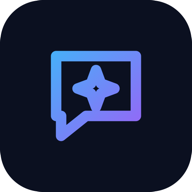
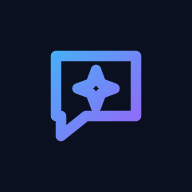
v0.23.2：设计包升到 v0.32.0，主屏 Web App 改用包里的实现

diff --git a/src/claude_bridge/static/app.html b/src/claude_bridge/static/app.html
@@ -12,7 +12,8 @@
   <meta name="mobile-web-app-capable" content="yes" />
   <meta name="apple-mobile-web-app-status-bar-style" content="black-translucent" />
   <meta name="apple-mobile-web-app-title" content="claude-bridge" />
-  <meta name="theme-color" content="#0b1020" />
+  <meta name="theme-color" media="(prefers-color-scheme: dark)" content="#0b1020" />
+  <meta name="theme-color" media="(prefers-color-scheme: light)" content="#eef1f8" />
   <link rel="preconnect" href="{{design_origin}}" crossorigin />
   <link rel="stylesheet" href="{{design_base}}/tokens.css" />
   <link rel="stylesheet" href="{{design_base}}/components.css" />
@@ -20,35 +21,11 @@
   <link rel="stylesheet" href="/static/bridge/bridge-widget.css" />
   <link rel="stylesheet" href="/static/bridge/bridge-pages.css" />
   <script type="module" src="/static/bridge/corner-boot.js"></script>
-  <style>
-    #app { height: 100vh; height: var(--app-h, 100dvh); }
-  </style>
   <script src="https://cdnjs.cloudflare.com/ajax/libs/marked/15.0.12/marked.min.js" defer></script>
 </head>
-<body class="bp-chat">
+<body class="bp-chat app-screen">
   <div class="bg-layer"></div>
-  <div id="app"></div>
-  <script>
-    // Phones: the on-screen keyboard covers the page without shrinking it, and iOS slides the page up under it. Size the
-    // app to what is visible (visualViewport) and keep the page at the top, so the composer sits right on the keyboard;
-    // with the keyboard up, the home-indicator inset below the composer is not needed (body.kb-open).
-    (() => {
-      const vv = window.visualViewport;
-      if (!vv) return;
-      let raf = 0;
-      const fit = () => {
-        raf = 0;
-        const full = document.documentElement.clientHeight, h = Math.round(vv.height);
-        document.documentElement.style.setProperty('--app-h', `${h}px`);
-        document.body.classList.toggle('kb-open', full - h > 120);
-        if (window.scrollY || vv.offsetTop) window.scrollTo(0, 0);
-      };
-      const later = () => { if (!raf) raf = requestAnimationFrame(fit); };
-      vv.addEventListener('resize', later);
-      vv.addEventListener('scroll', later);
-      fit();
-    })();
-  </script>
+  <div id="app" class="app-fill"></div>
   <script type="module">
     import { BridgeClient } from '/static/bridge/bridge-client.js';
     import { mountBridgeWidget, loadPrefs, savePrefs, applyPrefs } from '/static/bridge/bridge-widget.js';
@@ -56,7 +33,8 @@
     import { attachMenu } from '@szyyw/design/menu.js';
     import { confirm } from '@szyyw/design/confirm.js';
     import { iconSvg } from '@szyyw/design/icons.js';
-    const STANDALONE = matchMedia('(display-mode: standalone)').matches || navigator.standalone === true;
+    import { fitViewport, autoUpdate, defaultIsBusy } from '@szyyw/design/webapp.js';
+    fitViewport();  // one screen that follows the visible viewport: the composer sits on the phone keyboard
     import { openLightbox } from '@szyyw/design/lightbox.js';
 
     const client = new BridgeClient({ baseUrl: '/api', onAuthLost: () => { location.href = '/login'; } });
@@ -249,7 +227,6 @@
     });
 
     app.addEventListener('click', async (e) => {
-      if (e.target.closest('[data-reload]')) return location.reload();
       const m = e.target.closest('.bp-nav [data-mode]');
       if (m) return setMode(m.dataset.mode);
       const bk = e.target.closest('.bp-backend [data-backend]');
@@ -318,8 +295,6 @@
           + (u.role === 'admin' ? `<a class="menu-item" href="/admin">${iconSvg('users')}管理</a>` : '');
       }
       // portal SSO: sign-out lives in the corner account menu (it signs out of the portal)
-      // a home-screen web app has no address bar: give it a way to reload
-      if (STANDALONE) items += `<div class="menu-sep"></div><button type="button" class="menu-item" data-reload>${iconSvg('refresh-cw')}刷新页面</button>`;
       if (!d.sso) items += '<div class="menu-sep"></div><form method="post" action="/logout"><button type="submit" class="menu-item">' + iconSvg('log-out') + '退出登录</button></form>';
       for (const m of acctMenus) m.destroy();
       acctMenus = [];
@@ -336,26 +311,14 @@
     if (backend && !backends.some(b => b.name === backend)) { backend = ''; store.set('bridge_backend', null); }
     show();
     setInterval(renderAccount, 120000);
-    // Keeping up without a reload button (and for tabs left open): a new release is loaded as soon as nothing is being
-    // typed; coming back after a long time away starts afresh, the way a native app is relaunched.
-    const LOADED = document.documentElement.dataset.version || '';
-    const AWAY_MS = 30 * 60 * 1000;
-    let hiddenAt = 0;
-    const idle = () => !(widget?.input?.value || '').trim() && !document.querySelector('dialog[open], .bridge-dlg, .lightbox:not([hidden])');
-    async function checkVersion() {
-      if (document.hidden || !LOADED) return;
-      try {
-        const r = await fetch('/api/status', { cache: 'no-store', credentials: 'same-origin' });
-        const v = r.ok ? (await r.json())?.bridge?.version : '';
-        if (v && v !== LOADED && idle()) location.reload();
-      } catch { /* offline: try again later */ }
-    }
-    setInterval(checkVersion, 10 * 60 * 1000);
-    document.addEventListener('visibilitychange', () => {
-      if (document.hidden) { hiddenAt = Date.now(); return; }
-      if (hiddenAt && Date.now() - hiddenAt > AWAY_MS && idle()) return location.reload();
-      renderAccount(); checkVersion();
+    // A new release loads by itself (and after a long time away the page starts afresh) unless a draft is in the composer
+    // or a dialog is open; a home-screen app gets its 刷新 button in the appearance panel (mountChrome).
+    autoUpdate({
+      current: document.documentElement.dataset.version,
+      check: async () => (await (await fetch('/api/status', { cache: 'no-store' })).json())?.bridge?.version,
+      isBusy: () => !!(widget?.input?.value || '').trim() || defaultIsBusy(),
     });
+    document.addEventListener('visibilitychange', () => { if (!document.hidden) renderAccount(); });
   </script>
 </body>
 </html>

diff --git a/src/claude_bridge/static/bridge-pages.css b/src/claude_bridge/static/bridge-pages.css
@@ -119,10 +119,8 @@ html[data-vt="back"]::view-transition-new(bp-list), html[data-vt="back"]::view-t
 
 /* ---------- chat page on the site's background theme: glass layers over .bg-layer ----------
    Scoped to body.bp-chat, so the embedded widget (bridge-widget.css alone) keeps its flat look. */
-/* the chat page is one screen: only the transcript, the side list and the composer scroll inside it. The page itself
-   neither scrolls (the design tokens' body min-height: 100vh is taller than what a phone shows) nor bounces. */
-html:has(> body.bp-chat), body.bp-chat { height: 100%; overflow: hidden; overscroll-behavior: none; }
-body.bp-chat { min-height: 0; }
+/* the chat page is one screen (body.app-screen + #app.app-fill from the design package): only the transcript, the side
+   list and the composer scroll, each inside itself */
 body.bp-chat .bridge-list, body.bp-chat .bridge-threads { overscroll-behavior: contain; }
 body.bp-chat .bridge { background: transparent; }
 body.bp-chat .bridge-side,
@@ -156,18 +154,16 @@ body.bp-chat #app { position: relative; z-index: 1; }
 /* the page runs edge to edge (viewport-fit=cover): keep the composer, the sidebar's foot and the drawer clear of the
    phone's rounded corners and home indicator, and of the notch / side insets in landscape */
 body.bp-chat .bridge-form {
-  margin-bottom: calc(var(--chat-item-gap, 10px) + env(safe-area-inset-bottom, 0px));
+  margin-bottom: calc(var(--chat-item-gap, 10px) + var(--safe-bottom, env(safe-area-inset-bottom, 0px)));
   margin-left: max(var(--chat-gutter, 12px), env(safe-area-inset-left, 0px));
   margin-right: max(var(--chat-gutter, 12px), env(safe-area-inset-right, 0px));
 }
-/* keyboard up (app.html sets kb-open): the composer sits on the keyboard, no home-indicator gap below it */
-body.bp-chat.kb-open .bridge-form { margin-bottom: var(--chat-item-gap, 10px); }
 /* "comfortable" width: the composer lines up with the centred message column, like claude.ai */
 body.bp-chat .bridge[data-width="cozy"] .bridge-form {
   margin-left: max(var(--chat-gutter, 12px), env(safe-area-inset-left, 0px), calc((100% - var(--chat-col-w, 72ch)) / 2));
   margin-right: max(var(--chat-gutter, 12px), env(safe-area-inset-right, 0px), calc((100% - var(--chat-col-w, 72ch)) / 2));
 }
-body.bp-chat .bridge-side { padding-bottom: calc(10px + env(safe-area-inset-bottom, 0px)); padding-left: max(10px, env(safe-area-inset-left, 0px)); }
+body.bp-chat .bridge-side { padding-bottom: calc(10px + var(--safe-bottom, env(safe-area-inset-bottom, 0px))); padding-left: max(10px, env(safe-area-inset-left, 0px)); }
 body.bp-chat .bridge-top { padding-left: max(12px, env(safe-area-inset-left, 0px)); }
 
 /* account page: API keys */

diff --git a/src/claude_bridge/static/account.html b/src/claude_bridge/static/account.html
@@ -12,7 +12,8 @@
   <meta name="mobile-web-app-capable" content="yes" />
   <meta name="apple-mobile-web-app-status-bar-style" content="black-translucent" />
   <meta name="apple-mobile-web-app-title" content="claude-bridge" />
-  <meta name="theme-color" content="#0b1020" />
+  <meta name="theme-color" media="(prefers-color-scheme: dark)" content="#0b1020" />
+  <meta name="theme-color" media="(prefers-color-scheme: light)" content="#eef1f8" />
   <link rel="preconnect" href="{{design_origin}}" crossorigin />
   <link rel="stylesheet" href="{{design_base}}/tokens.css" />
   <link rel="stylesheet" href="{{design_base}}/components.css" />

diff --git a/src/claude_bridge/static/admin-user.html b/src/claude_bridge/static/admin-user.html
@@ -12,7 +12,8 @@
   <meta name="mobile-web-app-capable" content="yes" />
   <meta name="apple-mobile-web-app-status-bar-style" content="black-translucent" />
   <meta name="apple-mobile-web-app-title" content="claude-bridge" />
-  <meta name="theme-color" content="#0b1020" />
+  <meta name="theme-color" media="(prefers-color-scheme: dark)" content="#0b1020" />
+  <meta name="theme-color" media="(prefers-color-scheme: light)" content="#eef1f8" />
   <link rel="preconnect" href="{{design_origin}}" crossorigin />
   <link rel="stylesheet" href="{{design_base}}/tokens.css" />
   <link rel="stylesheet" href="{{design_base}}/components.css" />

diff --git a/src/claude_bridge/static/admin.html b/src/claude_bridge/static/admin.html
@@ -12,7 +12,8 @@
   <meta name="mobile-web-app-capable" content="yes" />
   <meta name="apple-mobile-web-app-status-bar-style" content="black-translucent" />
   <meta name="apple-mobile-web-app-title" content="claude-bridge" />
-  <meta name="theme-color" content="#0b1020" />
+  <meta name="theme-color" media="(prefers-color-scheme: dark)" content="#0b1020" />
+  <meta name="theme-color" media="(prefers-color-scheme: light)" content="#eef1f8" />
   <link rel="preconnect" href="{{design_origin}}" crossorigin />
   <link rel="stylesheet" href="{{design_base}}/tokens.css" />
   <link rel="stylesheet" href="{{design_base}}/components.css" />

diff --git a/src/claude_bridge/static/denied.html b/src/claude_bridge/static/denied.html
@@ -12,7 +12,8 @@
   <meta name="mobile-web-app-capable" content="yes" />
   <meta name="apple-mobile-web-app-status-bar-style" content="black-translucent" />
   <meta name="apple-mobile-web-app-title" content="claude-bridge" />
-  <meta name="theme-color" content="#0b1020" />
+  <meta name="theme-color" media="(prefers-color-scheme: dark)" content="#0b1020" />
+  <meta name="theme-color" media="(prefers-color-scheme: light)" content="#eef1f8" />
   <link rel="preconnect" href="{{design_origin}}" crossorigin />
   <link rel="stylesheet" href="{{design_base}}/tokens.css" />
   <link rel="stylesheet" href="{{design_base}}/components.css" />

diff --git a/src/claude_bridge/static/index.html b/src/claude_bridge/static/index.html
@@ -12,7 +12,8 @@
   <meta name="mobile-web-app-capable" content="yes" />
   <meta name="apple-mobile-web-app-status-bar-style" content="black-translucent" />
   <meta name="apple-mobile-web-app-title" content="claude-bridge" />
-  <meta name="theme-color" content="#0b1020" />
+  <meta name="theme-color" media="(prefers-color-scheme: dark)" content="#0b1020" />
+  <meta name="theme-color" media="(prefers-color-scheme: light)" content="#eef1f8" />
   <link rel="preconnect" href="{{design_origin}}" crossorigin />
   <link rel="stylesheet" href="{{design_base}}/tokens.css" />
   <link rel="stylesheet" href="{{design_base}}/components.css" />

diff --git a/src/claude_bridge/static/login.html b/src/claude_bridge/static/login.html
@@ -12,7 +12,8 @@
   <meta name="mobile-web-app-capable" content="yes" />
   <meta name="apple-mobile-web-app-status-bar-style" content="black-translucent" />
   <meta name="apple-mobile-web-app-title" content="claude-bridge" />
-  <meta name="theme-color" content="#0b1020" />
+  <meta name="theme-color" media="(prefers-color-scheme: dark)" content="#0b1020" />
+  <meta name="theme-color" media="(prefers-color-scheme: light)" content="#eef1f8" />
   <link rel="preconnect" href="{{design_origin}}" crossorigin />
   <link rel="stylesheet" href="{{design_base}}/tokens.css" />
   <link rel="stylesheet" href="{{design_base}}/components.css" />

diff --git a/src/claude_bridge/static/users-login.html b/src/claude_bridge/static/users-login.html
@@ -12,7 +12,8 @@
   <meta name="mobile-web-app-capable" content="yes" />
   <meta name="apple-mobile-web-app-status-bar-style" content="black-translucent" />
   <meta name="apple-mobile-web-app-title" content="claude-bridge" />
-  <meta name="theme-color" content="#0b1020" />
+  <meta name="theme-color" media="(prefers-color-scheme: dark)" content="#0b1020" />
+  <meta name="theme-color" media="(prefers-color-scheme: light)" content="#eef1f8" />
   <link rel="preconnect" href="{{design_origin}}" crossorigin />
   <link rel="stylesheet" href="{{design_base}}/tokens.css" />
   <link rel="stylesheet" href="{{design_base}}/components.css" />

diff --git a/src/claude_bridge/standalone.py b/src/claude_bridge/standalone.py
@@ -59,7 +59,7 @@ def mount_site_icons(app: FastAPI) -> None:
 APPEARANCE_COOKIE_PREFIX = "cb_"
 # The one place the design package version lives (scripts/update-design.sh rewrites this line). Every design file of a
 # page must come from the same version (the modules import each other relatively). Never /latest/.
-DESIGN_VERSION = "v0.31.2"
+DESIGN_VERSION = "v0.32.0"
 DESIGN_CDN = "https://design.szyyw.xyz"
 
 

diff --git a/src/claude_bridge/_version.py b/src/claude_bridge/_version.py
@@ -1,4 +1,4 @@
 """Single source of the package version (pyproject reads the same number by hand at release time)."""
 
-__version__ = "0.23.1"
+__version__ = "0.23.2"
 REPO = "Szyoo/claude-bridge"  # GitHub owner/repo: hosts check its tags to tell whether an update exists

diff --git a/CHANGELOG.md b/CHANGELOG.md
@@ -2,6 +2,11 @@
 
 版本号遵循 semver；宿主按 tag 更新（安装方式见 README「安装」）。
 
+## v0.23.2 — 2026-11-16
+
+- 设计包升到 v0.32.0，主屏 Web App 的部分改用包里的实现：整屏布局 `body.app-screen` + `.app-fill`、`fitViewport()`（键盘弹出时贴合）、`autoUpdate()`（新版本自动加载；输入框里有草稿或开着弹层时等到空闲再刷新）、`--safe-bottom`。去掉了自己写的视口脚本、版本检查和账户菜单里的「刷新页面」：主屏 App 里的刷新键改由包放在外观弹层的头部
+- 图标换成铺满的方形版本（系统自己切圆角），清单里加了 maskable 图标；`theme-color` 按明暗各一条
+
 ## v0.23.1 — 2026-11-16
 
 - 「舒适」正文宽度随窗口放宽：72 字符起，宽屏上最多到 110 字符（`--chat-col-w: clamp(72ch, 50vw, 110ch)`）
